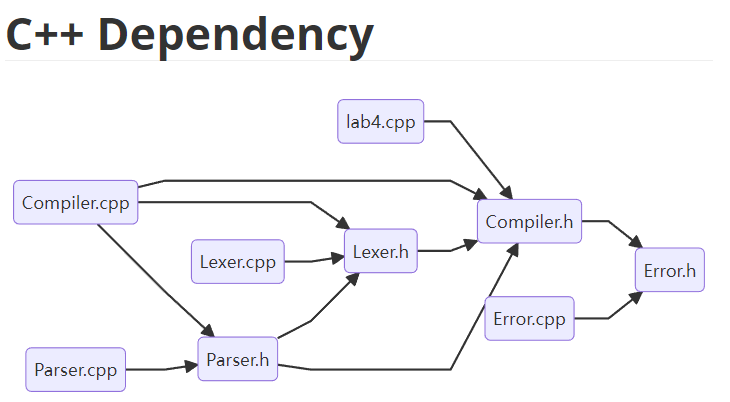
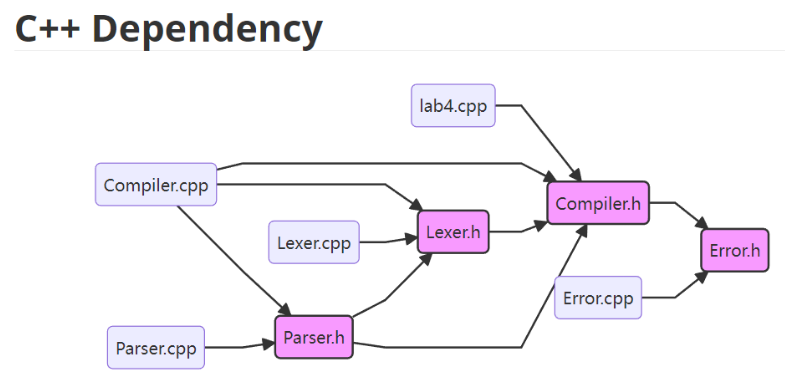
强调了.h文件的颜色

diff --git a/cpp_dependency.py b/cpp_dependency.py
@@ -65,6 +65,7 @@ def generate_markdown(output):
         f.write('# C++ Dependency\n')
         f.write('```mermaid\n')
         f.write('graph LR\n')
+        f.write('classDef hClass fill:#f9f,stroke:#333,stroke-width:2px;\n')
         file_list0 = []
         for file in file_list.values():
             file_list0.append(file)
@@ -73,10 +74,14 @@ def generate_markdown(output):
         for file in file_list0:
             if temp_number == file.number:
                 f.write('\t')
-                f.write(file.code + '(' + file.filename + '); ')
+                f.write(file.code + '(' + file.filename + ')')
             else:
                 f.write('\n')
-                f.write(file.code + '(' + file.filename + '); ')
+                f.write(file.code + '(' + file.filename + ')')
+            if file.type == 0:
+                f.write(':::hClass; ')
+            else:
+                f.write('; ')
             temp_number = file.number
         for file in file_list0:
             for dependency in file.dependencies:
